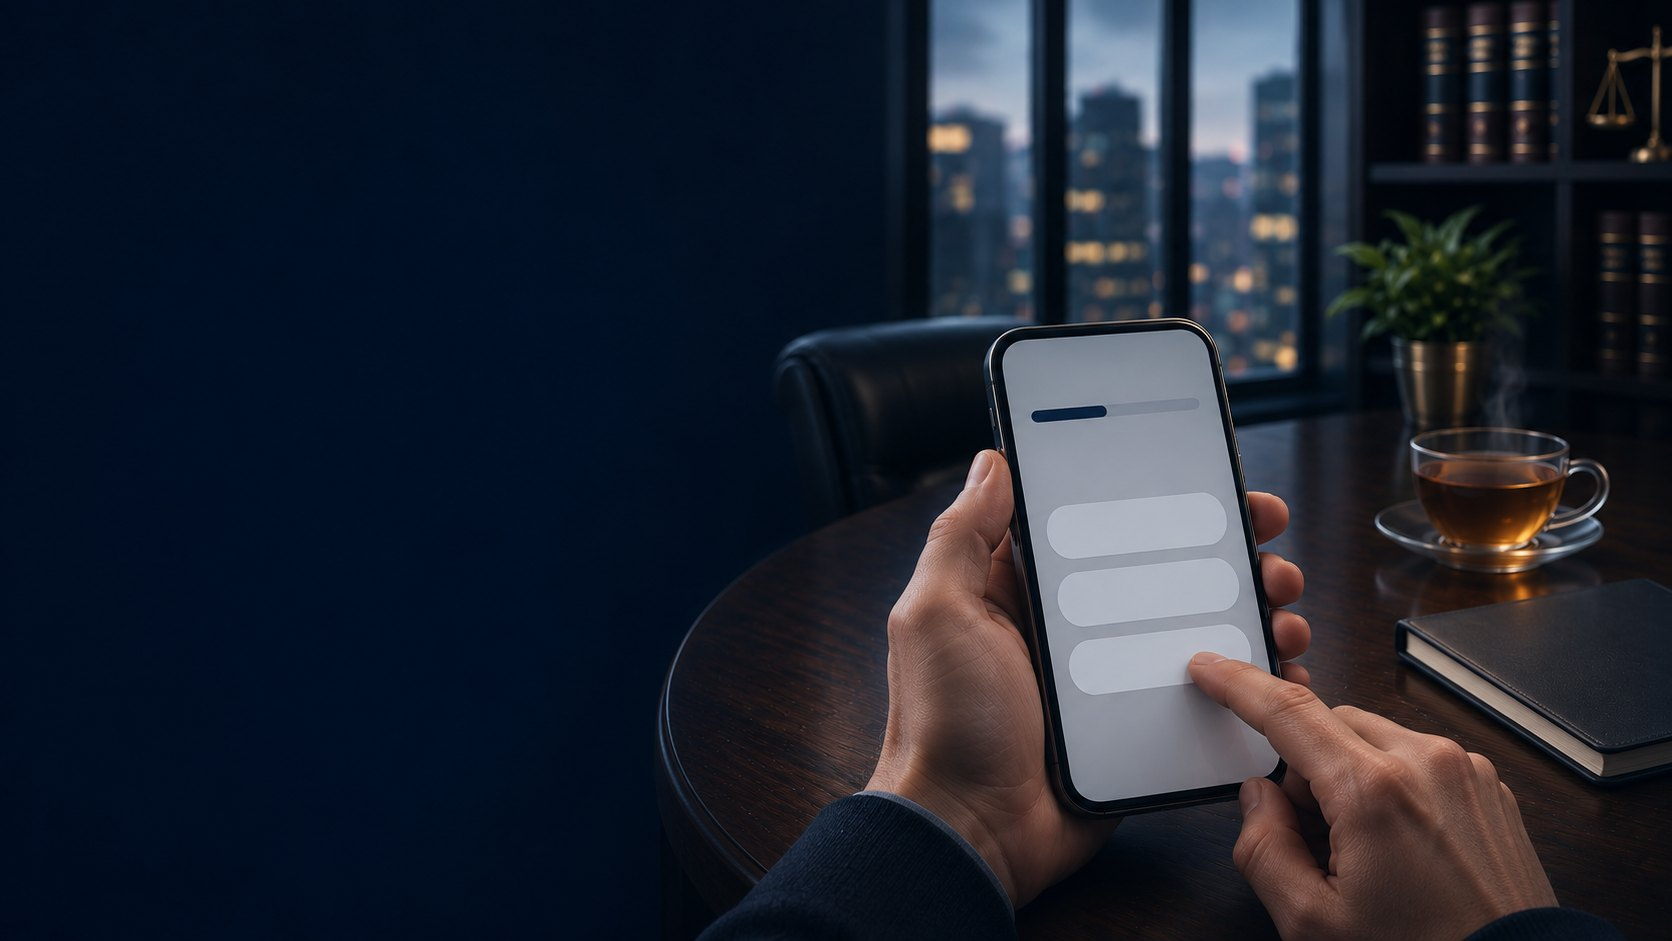
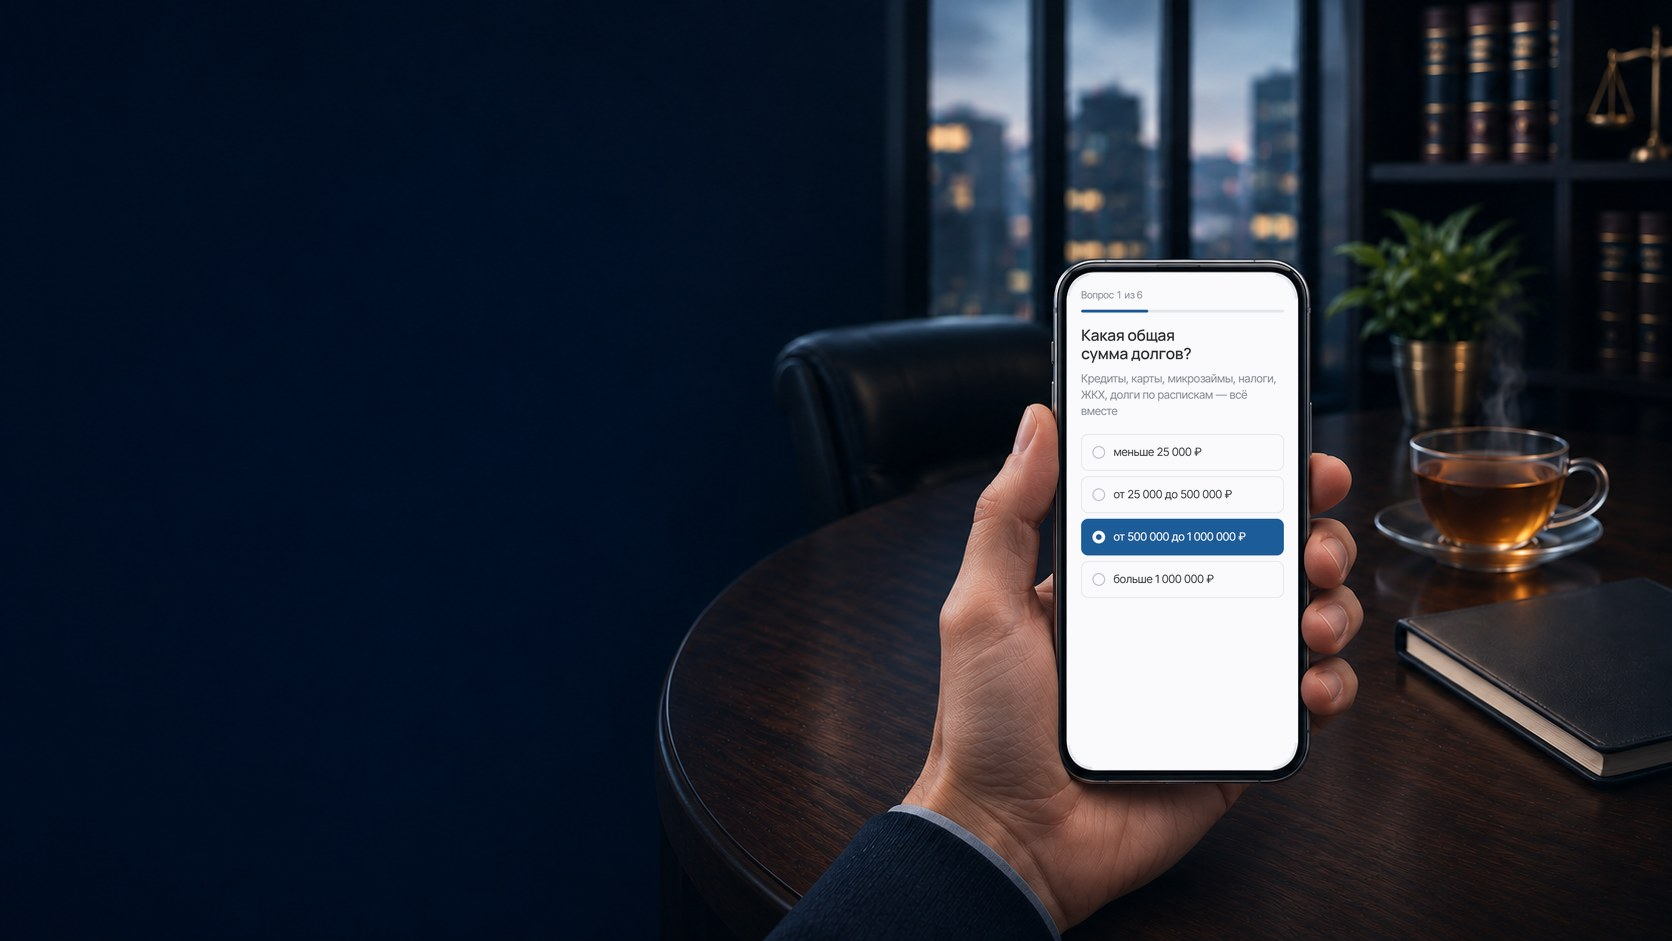
Дела: лента строками; квиз: телефон в руке с настоящим экраном; Стоимость услуг: без полосы цифр, расходы

diff --git a/design/proverka/phonetext.py b/design/proverka/phonetext.py
@@ -1,0 +1,61 @@
+"""Вписывает текст квиза на экран телефона (генератор ломает кириллицу). Текст и выбранная кнопка наклонены вместе с телефоном.
+python -I phonetext.py hero-bg-quiz.png hero-bg-quiz-fixed.png [crop.png]"""
+from PIL import Image, ImageDraw, ImageFont
+import math, sys
+src,out=sys.argv[1:3]; crop=sys.argv[3] if len(sys.argv)>3 else None
+im=Image.open(src).convert('RGB'); px=im.load()
+F='C:/Windows/Fonts/'; SLOPE=0.087; ANG=math.degrees(math.atan(SLOPE)); K=4
+
+def colfill(x0,y0,x1,y1):
+    for x in range(x0,x1+1):
+        a=px[x,y0-2]; b=px[x,y1+2]
+        la=sum(a)/3; lb=sum(b)/3
+        if abs(la-lb)>60:
+            if la<lb and la<120: b=a
+            elif lb<la and lb<120: a=b
+        for y in range(y0,y1+1):
+            t=(y-y0)/max(1,(y1-y0))
+            px[x,y]=tuple(int(a[i]*(1-t)+b[i]*t) for i in range(3))
+
+# 1) стереть сломанные надписи (кроме выбранной кнопки — её перерисуем целиком)
+for r in [(1062,365,1162,388),(1029,440,1222,478),(1080,515,1172,542),(1100,633,1190,661),(1146,720,1196,743)]:
+    colfill(*r)
+for x in range(1186,1200):
+    for y in range(626,652):
+        r_,g_,b_=px[x,y]
+        if max(r_,g_,b_)-min(r_,g_,b_)<28 and (r_+g_+b_)/3<215: px[x,y]=(237,238,242)
+
+def paste_rotated(layer, cx, cy):
+    rot=layer.rotate(ANG, resample=Image.BICUBIC, expand=True)
+    rot=rot.resize((rot.width//K, rot.height//K), Image.LANCZOS)
+    im.paste(rot,(int(round(cx-rot.width/2)),int(round(cy-rot.height/2))),rot)
+
+def text_at(t, font_file, size, color, cx=None, x_left=None, line=None, cy=None):
+    font=ImageFont.truetype(F+font_file, size*K)
+    d0=ImageDraw.Draw(Image.new('RGBA',(1,1)))
+    w=d0.textlength(t,font=font); bb=font.getbbox(t)
+    pad=6*K; L=Image.new('RGBA',(int(w)+2*pad, (bb[3]-bb[1])+2*pad),(0,0,0,0))
+    ImageDraw.Draw(L).text((pad,pad-bb[1]),t,font=font,fill=color)
+    if cx is None: cx=x_left+w/K/2
+    if cy is None: cy=line[1]-(cx-line[0])*SLOPE
+    paste_rotated(L,cx,cy)
+
+# 2) выбранная кнопка: синяя «таблетка» с радио и текстом, повёрнута как телефон
+PCX,PCY,PW,PH=1147.5,584.7,198,52
+L=Image.new('RGBA',(PW*K,PH*K),(0,0,0,0)); d=ImageDraw.Draw(L)
+d.rounded_rectangle((0,0,PW*K-1,PH*K-1),radius=PH*K//2,fill=(2,76,145,255))
+rcx=(1073.3-PCX+PW/2)*K; rcy=PH*K/2
+for r,c in ((9.5,(255,255,255,255)),(7,(2,76,145,255)),(4.5,(255,255,255,255))):
+    d.ellipse((rcx-r*K,rcy-r*K,rcx+r*K,rcy+r*K),fill=c)
+font=ImageFont.truetype(F+'seguisb.ttf',12*K); t='от 500 тыс. до 1 млн ₽'; bb=font.getbbox(t)
+d.text(((1092-PCX+PW/2)*K, rcy-(bb[3]-bb[1])/2-bb[1]),t,font=font,fill=(255,255,255,255))
+paste_rotated(L,PCX,PCY)
+
+# 3) остальные надписи — вдоль наклона экрана
+text_at('Вопрос 2 из 6','segoeui.ttf',12,(120,124,132),cx=1112,line=(1112,376.5))
+text_at('Какая сумма долга?','segoeuib.ttf',18,(29,30,33),cx=1125,line=(1125,459))
+text_at('до 500 тыс. ₽','seguisb.ttf',13,(29,30,33),x_left=1084,line=(1126,528.5))
+text_at('больше 1 млн ₽','seguisb.ttf',13,(29,30,33),x_left=1103,line=(1145,647))
+text_at('Далее','segoeuib.ttf',14,(255,255,255),cx=1171,line=(1171,731.5))
+im.save(out)
+if crop: im.crop((1000,340,1290,780)).resize((580,880)).save(crop)

diff --git a/design/proverka/screen.py b/design/proverka/screen.py
@@ -1,0 +1,35 @@
+"""Вставляет снимок квиза на ровный экран телефона. python -I screen.py bg.png screen.png out.png"""
+from PIL import Image, ImageDraw, ImageFilter
+import sys
+bg,scr,out=sys.argv[1:4]
+im=Image.open(bg).convert('RGB'); px=im.load(); W,H=im.size
+# экран — самая светлая почти-белая область справа: границы по строке/столбцу через центр
+cx,cy=None,None
+best=0
+for x in range(W//2,W,4):
+    for y in range(0,H,4):
+        r,g,b=px[x,y]
+        if r>215 and g>215 and b>215:
+            cx,cy=x,y; break
+    if cx: break
+# расширяем от найденной точки к центру экрана
+y0=cy
+while y0>0 and min(px[cx+60,y0-1])>185: y0-=1
+y1=cy
+while y1+1<H and min(px[cx+60,y1+1])>185: y1+=1
+my=(y0+y1)//2
+xs=[x for x in range(W//2,W) if min(px[x,my])>185]; x0=xs[0]; x1=x0
+while x1+1<W and min(px[x1+1,my])>185: x1+=1
+sw,sh=x1-x0+1,y1-y0+1
+print('screen',x0,y0,x1,y1)
+s=Image.open(scr).convert('RGB')
+# заполняем по ширине, низ — белый
+k=sw/s.width; s=s.resize((sw,int(s.height*k)),Image.LANCZOS)
+canvas=Image.new('RGB',(sw,sh),(255,255,255)); canvas.paste(s.crop((0,0,sw,min(sh,s.height))),(0,0))
+# лёгкое затемнение под общую экспозицию
+canvas=Image.blend(canvas,Image.new('RGB',(sw,sh),(214,220,230)),0.12)
+# маска — по самому светлому экрану исходника (повторяет его скругления), края чуть сжаты и смягчены
+src=im.crop((x0,y0,x1+1,y1+1)).convert('L')
+mask=src.point(lambda v:255 if v>175 else 0).filter(ImageFilter.MinFilter(5)).filter(ImageFilter.GaussianBlur(0.8))
+im.paste(canvas,(x0,y0),mask)
+im.save(out)

diff --git a/seo/decisions.md b/seo/decisions.md
@@ -74,3 +74,4 @@
 | 25.11.2026 | Хостинг REG.RU «Хост-0» (u3742554, server19.hosting.reg.ru, 31.31.198.57), сайт в `www/bankrotstvo70.ru`, вход по SSH-ключу `~/.ssh/bankrotstvo70_regru`. За nginx REG.RU `%{HTTPS}` всегда off — редирект в `.htaccess` по `X-Forwarded-Proto`. Заявки: почта Юрия на mail.ru и дубль в группу MAX (бот, `max_bot_token`/`max_chat_id`) — реальные адрес и токен только в `lead-config.php` на хостинге, в публичный репозиторий не коммитить. Бот MAX называть с «ИИ» (не выдавать за личную консультацию). | Решения дизайнера | высокая |
 | 25.11.2026 | Новая страница /podhodit-li-bankrotstvo/ с квизом (HomeQuiz), «Кому не поможет», отзывы, кейсы, 4 FAQ; карточка-промо в меню «Услуги» ведёт на неё (якорь #proverka работал только на главной). У Page появились ctaHref/ctaLabel. Рассрочка: убран блок «Что оплачивается отдельно» — создавал впечатление расходов сверх 150 000 ₽; FAQ переписан. Меню «Цены»: «Стоимость услуг». | Просьба дизайнера | средняя |
 | 25.11.2026 | CRM по образцу Виража без SMS/MAX/менеджеров (`crm/`, README там): на хостинге `~/bankrotstvo70-crm` (SQLite, `.env` 600), вход `/crm`, счётчик `public/js/visits.js` → `/api/visit`, `lead.php` дописывает заявку в CRM по cookie sd_vid/sd_sid. Cron — только через ispmanager «Планировщик CRON» (crontab по SSH не сохраняется сам, ispmanager пишет свой). Заявки без договора удаляются через 12 мес., заходы без заявки — 3 мес.; в политике это указано. На хостинг выложена версия 46e7f22 + только файлы CRM (свежие страницы основной сессии не выкладывались). |
+| 25.11.2026 | «Дела» по примеру дизайнера: одна лента из 21 дела строками без картинок (итог/сумма слева, справа карточка: дата, «Освобождён от долгов», должник, маска номера, суд, срок); без цифр на первом экране, отзывов и блога (у Page появился blog={false}); без сканов, имён и городов. Квиз: фон — телефон в руке, на экране настоящий снимок квиза (design/proverka/screen.py), heroBgPos. «Стоимость услуг»: без полосы цифр; блок расходов — депозит «уже входит в итог от 150 000 ₽». | Просьба дизайнера | средняя |
